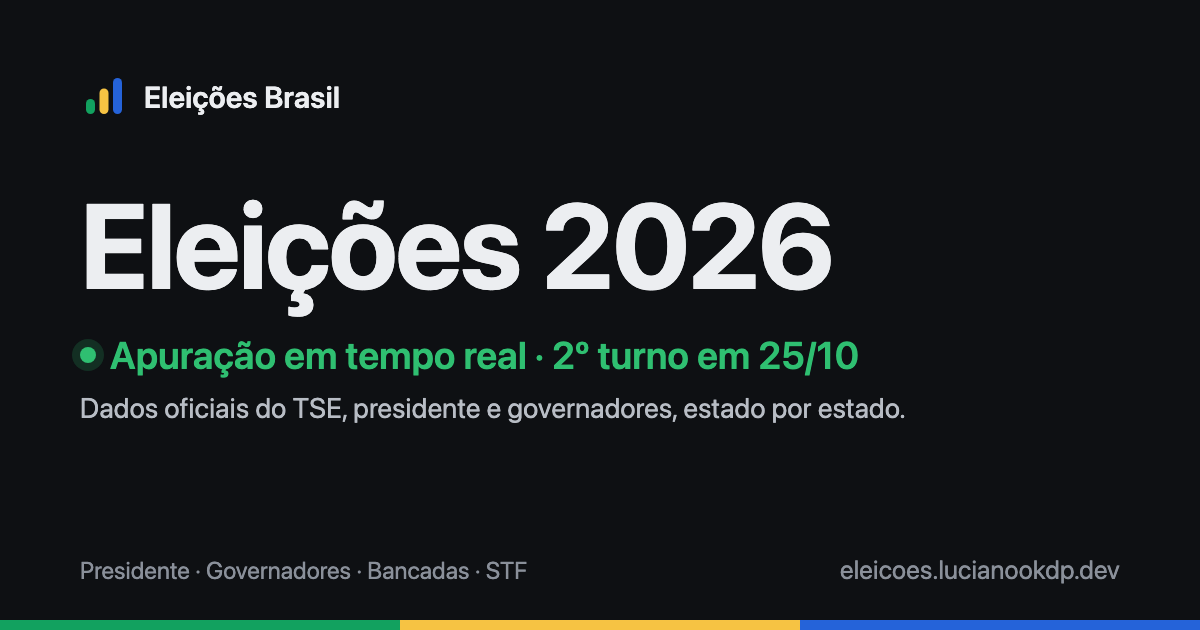
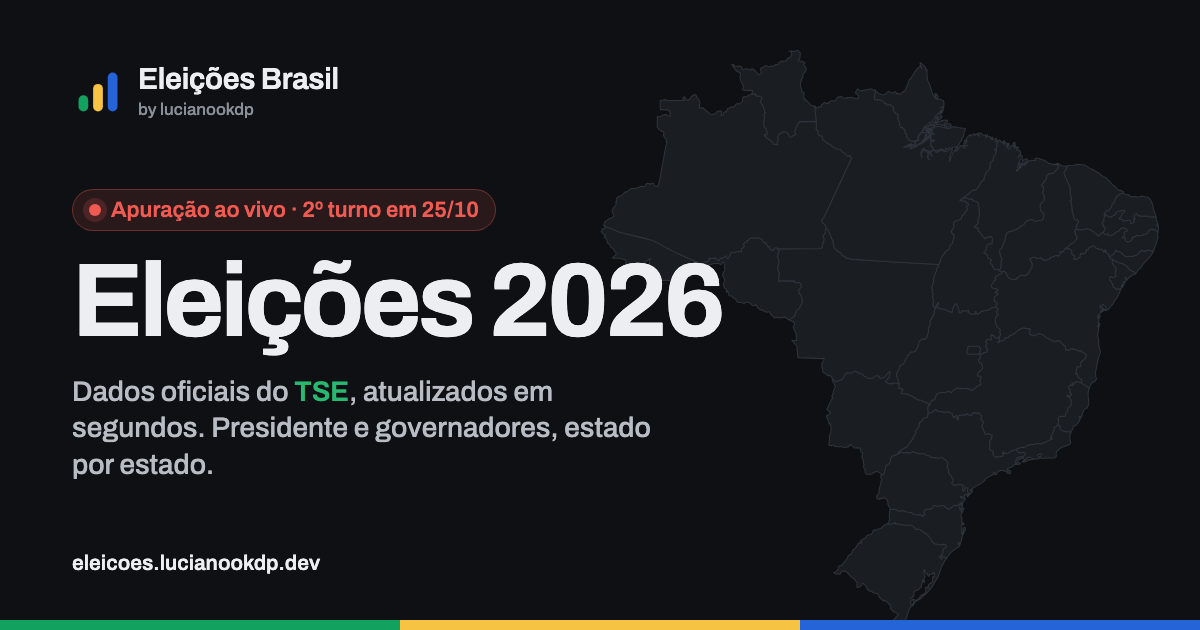
README with every feature, screenshots, new share image
- README rewritten from what the site does today: live count, states and
  cities with the most-voted filter, governors/Senado/STF, Bancadas, search,
  Minha cidade, favorites, comparison, timeline, sharing, the separate
  Polymarket page, transparency pages; principles, a flow diagram, stack,
  local setup and tests. Screenshots of the live site in docs/screenshots.
- Share image (og.png v3): red "Apuração ao vivo", the map, "by lucianookdp".
- The responsive test also covers Como funciona, Sobre and the 404 page.
- STF: the appointer line wraps instead of cutting long names.

diff --git a/apps/web/app/layout.tsx b/apps/web/app/layout.tsx
@@ -45,7 +45,7 @@ export const metadata: Metadata = {
     description: 'Dados oficiais do TSE, atualizados a cada parcial. 2º turno em 25 de outubro.',
     url: `${base}/`,
     images: [
-      { url: `${base}/og.png?v=2`, width: 1200, height: 630, alt: 'Eleições 2026 · Apuração em tempo real' },
+      { url: `${base}/og.png?v=3`, width: 1200, height: 630, alt: 'Eleições 2026 · Apuração em tempo real' },
     ],
   },
   twitter: { card: 'summary_large_image' },

diff --git a/apps/web/components/stf-view.tsx b/apps/web/components/stf-view.tsx
@@ -214,7 +214,7 @@ function MinisterRow({ m }: { m: Minister }) {
             </span>
           )}
         </p>
-        <p className="truncate text-[12.5px] text-muted">
+        <p className="text-[12.5px] leading-snug text-muted">
           Indicação de <span className="text-ink-2">{m.appointedBy}</span> · desde {sinceYear(m)}
         </p>
       </div>

diff --git a/apps/web/e2e/responsive.e2e.ts b/apps/web/e2e/responsive.e2e.ts
@@ -17,6 +17,9 @@ const PAGES = [
   '/eleicao/comparar/',
   '/eleicao/cargos/?cargo=stf',
   '/polymarket/',
+  '/como-funciona/',
+  '/sobre/',
+  '/pagina-que-nao-existe/',
 ];
 const WIDTHS = [320, 375, 430, 768, 1024, 1280, 1440];
 

diff --git a/README.md b/README.md
@@ -1,29 +1,128 @@
 # Eleições Brasil
 
-Acompanhe a apuração das eleições brasileiras em tempo real, direto do celular ou do computador.
+Apuração das eleições brasileiras em tempo real, com os dados oficiais do TSE. Rápido no
+celular, neutro e sem previsões.
 
-**Acesse:** https://eleicoes.lucianookdp.dev/
+**Acesse: [eleicoes.lucianookdp.dev](https://eleicoes.lucianookdp.dev)**
 
-## O que dá para ver
+[![CI](https://github.com/lucianookdp/eleicoes-brasil/actions/workflows/ci.yml/badge.svg)](https://github.com/lucianookdp/eleicoes-brasil/actions/workflows/ci.yml)
+[![Site no ar](https://github.com/lucianookdp/eleicoes-brasil/actions/workflows/health.yml/badge.svg)](https://github.com/lucianookdp/eleicoes-brasil/actions/workflows/health.yml)
+[![Licença MIT](https://img.shields.io/badge/licen%C3%A7a-MIT-green)](LICENSE)
 
-- Quantas urnas já foram apuradas, no Brasil e em cada região
-- Os candidatos com foto, votos e percentual, atualizados sozinhos a cada nova parcial
-- O mapa do Brasil por estado
-- Resultados de cada estado e de cada município, para todos os cargos
-- Como estava a apuração em qualquer horário da noite
+<p>
+  <img src="docs/screenshots/home-desktop.png" alt="Página inicial no computador: confronto do 2º turno, comparecimento e mapa por estado" width="100%">
+</p>
+<p>
+  <img src="docs/screenshots/home-mobile.png" alt="Página inicial no celular" width="32%">
+  <img src="docs/screenshots/states-mobile.png" alt="Lista de estados com filtro por mais votado" width="32%">
+  <img src="docs/screenshots/polymarket-mobile.png" alt="Página do Polymarket" width="32%">
+</p>
 
-## De onde vêm os dados
+## Funcionalidades
 
-Todos os números vêm dos arquivos públicos de resultados do **Tribunal Superior Eleitoral
-(TSE)**. O site só busca, confere e mostra esses dados, sem opinião, pesquisa ou previsão.
+### Apuração ao vivo
+- **Atualização automática:** cada nova parcial do TSE chega à tela em segundos, sem recarregar
+  a página (Server-Sent Events). Um indicador mostra se está "Ao vivo", "Dados atrasados" ou
+  "Encerrada".
+- **Confronto principal:** os dois primeiros colocados lado a lado, com percentual, votos e
+  diferença. O "Eleito" e o "Vai ter 2º turno" só aparecem quando o próprio TSE informa.
+- **Quanto já foi apurado:** urnas apuradas no Brasil e por região, comparecimento, abstenção,
+  brancos e nulos.
+- **Mapa do Brasil:** cada estado pintado pelo mais votado ou pelo percentual apurado, com as
+  siglas, e toque para ver os detalhes.
+- **Evolução e liderança:** gráfico do percentual de cada candidato ao longo da noite e da
+  vantagem do 1º sobre o 2º colocado.
+- **Atualizações recentes:** o que acabou de mudar, por estado.
+- **1º e 2º turno:** troca de turno em um toque, mantendo a página em que você está.
 
-Os votos necessários para cada decisão no Congresso vêm da Constituição Federal. As bandeiras
-dos estados são símbolos oficiais (domínio público), em miniaturas do Wikimedia Commons.
+### Estados e municípios
+- Resultados de **todos os cargos** em cada estado (Presidente, Governador, Senador, deputados)
+  e em **cada município**, além dos votos no exterior.
+- **Filtro por mais votado:** veja só os estados ou municípios onde cada candidato teve mais
+  votos (ou está à frente, durante a apuração).
+- Ordenação por nome, mais ou menos apurados, votos apurados ou atualizados agora.
 
-Este é um projeto independente, sem vínculo com a Justiça Eleitoral. Resultados parciais podem
-mudar até o fim da apuração.
+### Governadores, Senado e STF
+- Quem venceu ou foi para o 2º turno em cada estado, para governador e senador.
+- **STF:** os ministros, quem indicou cada um, filtro por presidente, aposentadoria obrigatória,
+  linha do tempo das posses, composição das duas turmas e o que o tribunal faz, com os artigos
+  da Constituição.
 
-## Para desenvolvedores
+### Bancadas
+- **Câmara e Senado eleitos:** hemiciclo com as cadeiras de cada partido e quantos votos são
+  necessários para cada tipo de decisão no Congresso.
+
+### Ferramentas
+- **Busca:** estados, municípios, candidatos, partidos e cargos em um só lugar.
+- **Minha cidade:** escolha uma vez e veja a disputa da sua cidade no topo da página inicial.
+- **Favoritos:** salve estados e cidades para acompanhar.
+- **Comparar estados:** até oito estados lado a lado; a comparação fica no link para compartilhar.
+- **Linha do tempo:** como estava a apuração em qualquer horário da noite.
+- **Compartilhar:** imagem do resultado pronta para o WhatsApp e redes sociais.
+
+### Mercado de apostas
+- Página separada com os preços do **Polymarket** para o 2º turno: chance de cada candidato,
+  gráfico histórico, margem de vitória e resultado por estado, atualizados a cada 30 segundos.
+  Fica fora da apuração e não interfere nela: é o navegador de quem lê que consulta o Polymarket.
+
+### Transparência
+- **Bastidores:** o ritmo da apuração e o funcionamento da coleta, ao vivo.
+- **Como funciona** e **Sobre os dados:** de onde vêm os números, como ler os horários e o que é
+  calculado pelo site.
+- Cada resultado mostra o horário de divulgação do TSE e o de recebimento aqui.
+
+### Para todos
+- Feito primeiro para o celular, de 320 px a telas grandes.
+- Tema claro e escuro, seguindo o sistema, com botão para trocar.
+- Sem contas, anúncios ou rastreamento. Favoritos e preferências ficam só no seu navegador.
+
+## Princípios
+
+- **Só dados oficiais.** Todos os números da apuração vêm dos arquivos públicos do Tribunal
+  Superior Eleitoral (TSE), sem alteração.
+- **Neutro.** Sem opinião, análise partidária, pesquisa ou projeção na apuração.
+- **Leve com o TSE.** Só o nosso sistema consulta o tribunal, dentro dos limites de acesso que
+  ele define; os leitores leem a nossa cópia.
+- **Projeto independente,** sem vínculo com a Justiça Eleitoral. Resultados parciais podem
+  mudar até o fim da apuração.
+
+## Como funciona
+
+```mermaid
+flowchart LR
+  TSE["TSE<br/>arquivos públicos"] -->|"requisições condicionais<br/>(ETag / 304)"| W["worker<br/>coleta e valida"]
+  W --> DB[("PostgreSQL<br/>estado atual + histórico")]
+  DB -->|"NOTIFY"| API["API<br/>REST + SSE"]
+  API --> CDN["CDN"]
+  CDN --> WEB["site estático<br/>GitHub Pages"]
+```
+
+- O **worker** consulta o TSE em dois ritmos (Brasil e estados com mais frequência, municípios
+  em segundo plano), baixa só o que mudou e valida cada arquivo antes de gravar. Dados
+  impossíveis são sinalizados e nunca apagam o que já estava certo.
+- O **PostgreSQL** guarda o estado atual e cada atualização, o que permite a linha do tempo.
+- A **API** responde com cache em memória, comprimido uma vez por atualização, e avisa os
+  navegadores por Server-Sent Events. Na frente dela, uma CDN absorve os picos de acesso.
+- O **site** é estático (Next.js exportado) e funciona mesmo se a API cair: mostra os últimos
+  dados recebidos e avisa.
+
+Mais detalhes em [docs/architecture.md](docs/architecture.md) e
+[docs/tse-integration.md](docs/tse-integration.md).
+
+## Tecnologias
+
+| Parte | Tecnologias |
+| --- | --- |
+| Site | Next.js 16 (exportação estática), React, TanStack Query, Tailwind CSS |
+| API | Fastify, Server-Sent Events, Zod |
+| Coleta | Node.js, cliente HTTP com limite de taxa e requisições condicionais |
+| Banco | PostgreSQL, Drizzle |
+| Qualidade | TypeScript, Biome, Vitest, Playwright (fluxos e larguras de 320 a 1440 px, nos dois temas) |
+| Infra | GitHub Pages, Railway (API, worker e Postgres), CDN, GitHub Actions |
+
+## Rodar localmente
+
+Requer Node.js 22+ e pnpm.
 
 ```bash
 pnpm install
@@ -31,9 +130,43 @@ docker compose up -d postgres
 pnpm dev:demo
 ```
 
-Abre em http://localhost:3000 com uma eleição fictícia para testes. Detalhes técnicos em
-[docs/](docs).
+Abre em http://localhost:3000 com uma eleição fictícia que é apurada em poucos minutos, para
+ver tudo funcionando sem depender do TSE. Sem Docker, veja a seção "Postgres local sem Docker"
+em [docs/deployment.md](docs/deployment.md).
+
+```bash
+pnpm lint        # Biome
+pnpm typecheck   # TypeScript em todos os pacotes
+pnpm test        # testes unitários e de integração (precisam do Postgres)
+pnpm --filter @eleicoes/web test:e2e   # Playwright, com o modo demo rodando
+```
+
+## Estrutura
+
+```
+apps/
+  web/       site (Next.js)
+  api/       API pública (Fastify)
+  worker/    coleta do TSE
+packages/
+  tse-client/       leitura e validação dos arquivos do TSE
+  election-core/    tipos e regras compartilhadas
+  database/         esquema e migrações (Drizzle)
+  config/           variáveis de ambiente e versões
+docs/        arquitetura, integração com o TSE, deploy, nova eleição
+```
+
+- [Deploy e noite da eleição](docs/deployment.md)
+- [Como preparar uma nova eleição](docs/adding-new-election.md)
+
+## Créditos
+
+- Dados: Tribunal Superior Eleitoral (TSE).
+- Mapa: "Map of Brazil", de Victor Cazanave ([svg-maps](https://github.com/VictorCazanave/svg-maps)), CC BY 4.0.
+- Bandeiras dos estados: símbolos oficiais (domínio público), via Wikimedia Commons.
+- Fotos dos ministros do STF: Wikimedia Commons (autores e licenças na própria página).
+- Mercado de apostas: dados públicos do [Polymarket](https://polymarket.com).
 
 ## Licença
 
-MIT · Desenvolvido por [lucianookdp](https://lucianookdp.dev)
+[MIT](LICENSE) · Feito por [lucianookdp](https://lucianookdp.dev)
